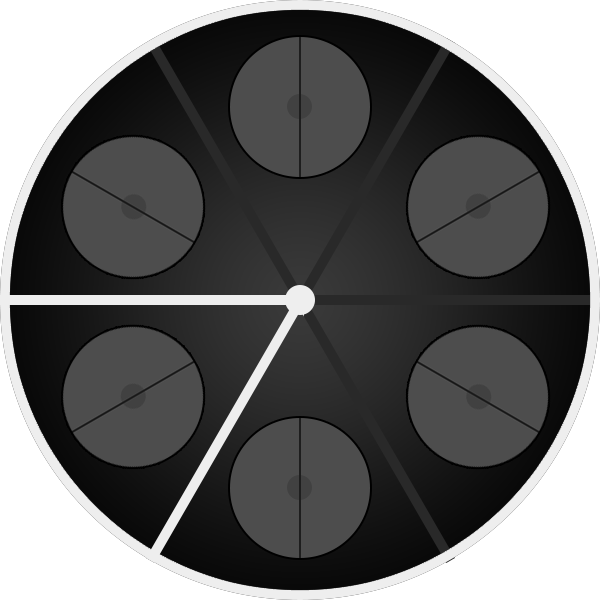
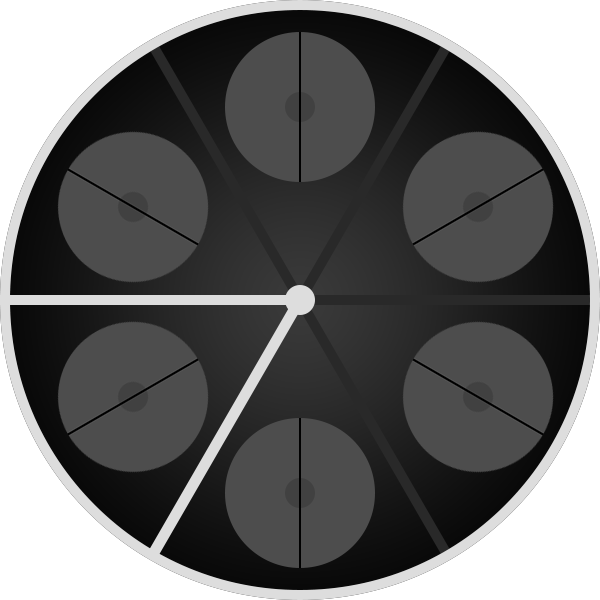
Ajustes na resolução da roleta

diff --git a/jogar_roleta.py b/jogar_roleta.py
@@ -11,8 +11,9 @@ caiu = pygame.image.load("img/caiu.png")
 caiu = pygame.transform.smoothscale(caiu, (int(caiu.get_width() * get_ratio()),
                                            int(caiu.get_height() * get_ratio())))
 
-                  #0           #1           #2          #3         #4           #5
-pos_buracos = [(1068, 377), (890, 468), (723, 377), (723, 187), (890, 87), (1068, 187)]
+
+                    #0          #1          #2            #3         #4        #5
+pos_buracos = [(1062, 370), (884, 466), (717, 370), (717, 180), (884, 80), (1062, 180)]
 for i in range(len(pos_buracos)):
     pos_buracos[i] = (int(pos_buracos[i][0] * get_ratio()), int(pos_buracos[i][1] * get_ratio()))
 

diff --git a/jogador.py b/jogador.py
@@ -4,7 +4,8 @@ from textos_menu import Texto
 from copy import copy
 from random import randint, choice
 
-pos_players = [(910, 492), (743, 398), (743, 208), (910, 107), (1090, 208)]
+pos_buracos = [(884, 466), (717, 370), (717, 180), (884, 80), (1062, 180)]
+pos_players = [(910, 495), (742, 398), (742, 208), (910, 107), (1090, 208)]
 pos_nome = [(1722, 80), (1722, 195), (1722, 315), (1722, 435), (1722, 555)]
 pos_dinheiro = [(1722, 130), (1722, 250), (1722, 370), (1722, 490), (1722, 610)]
 
